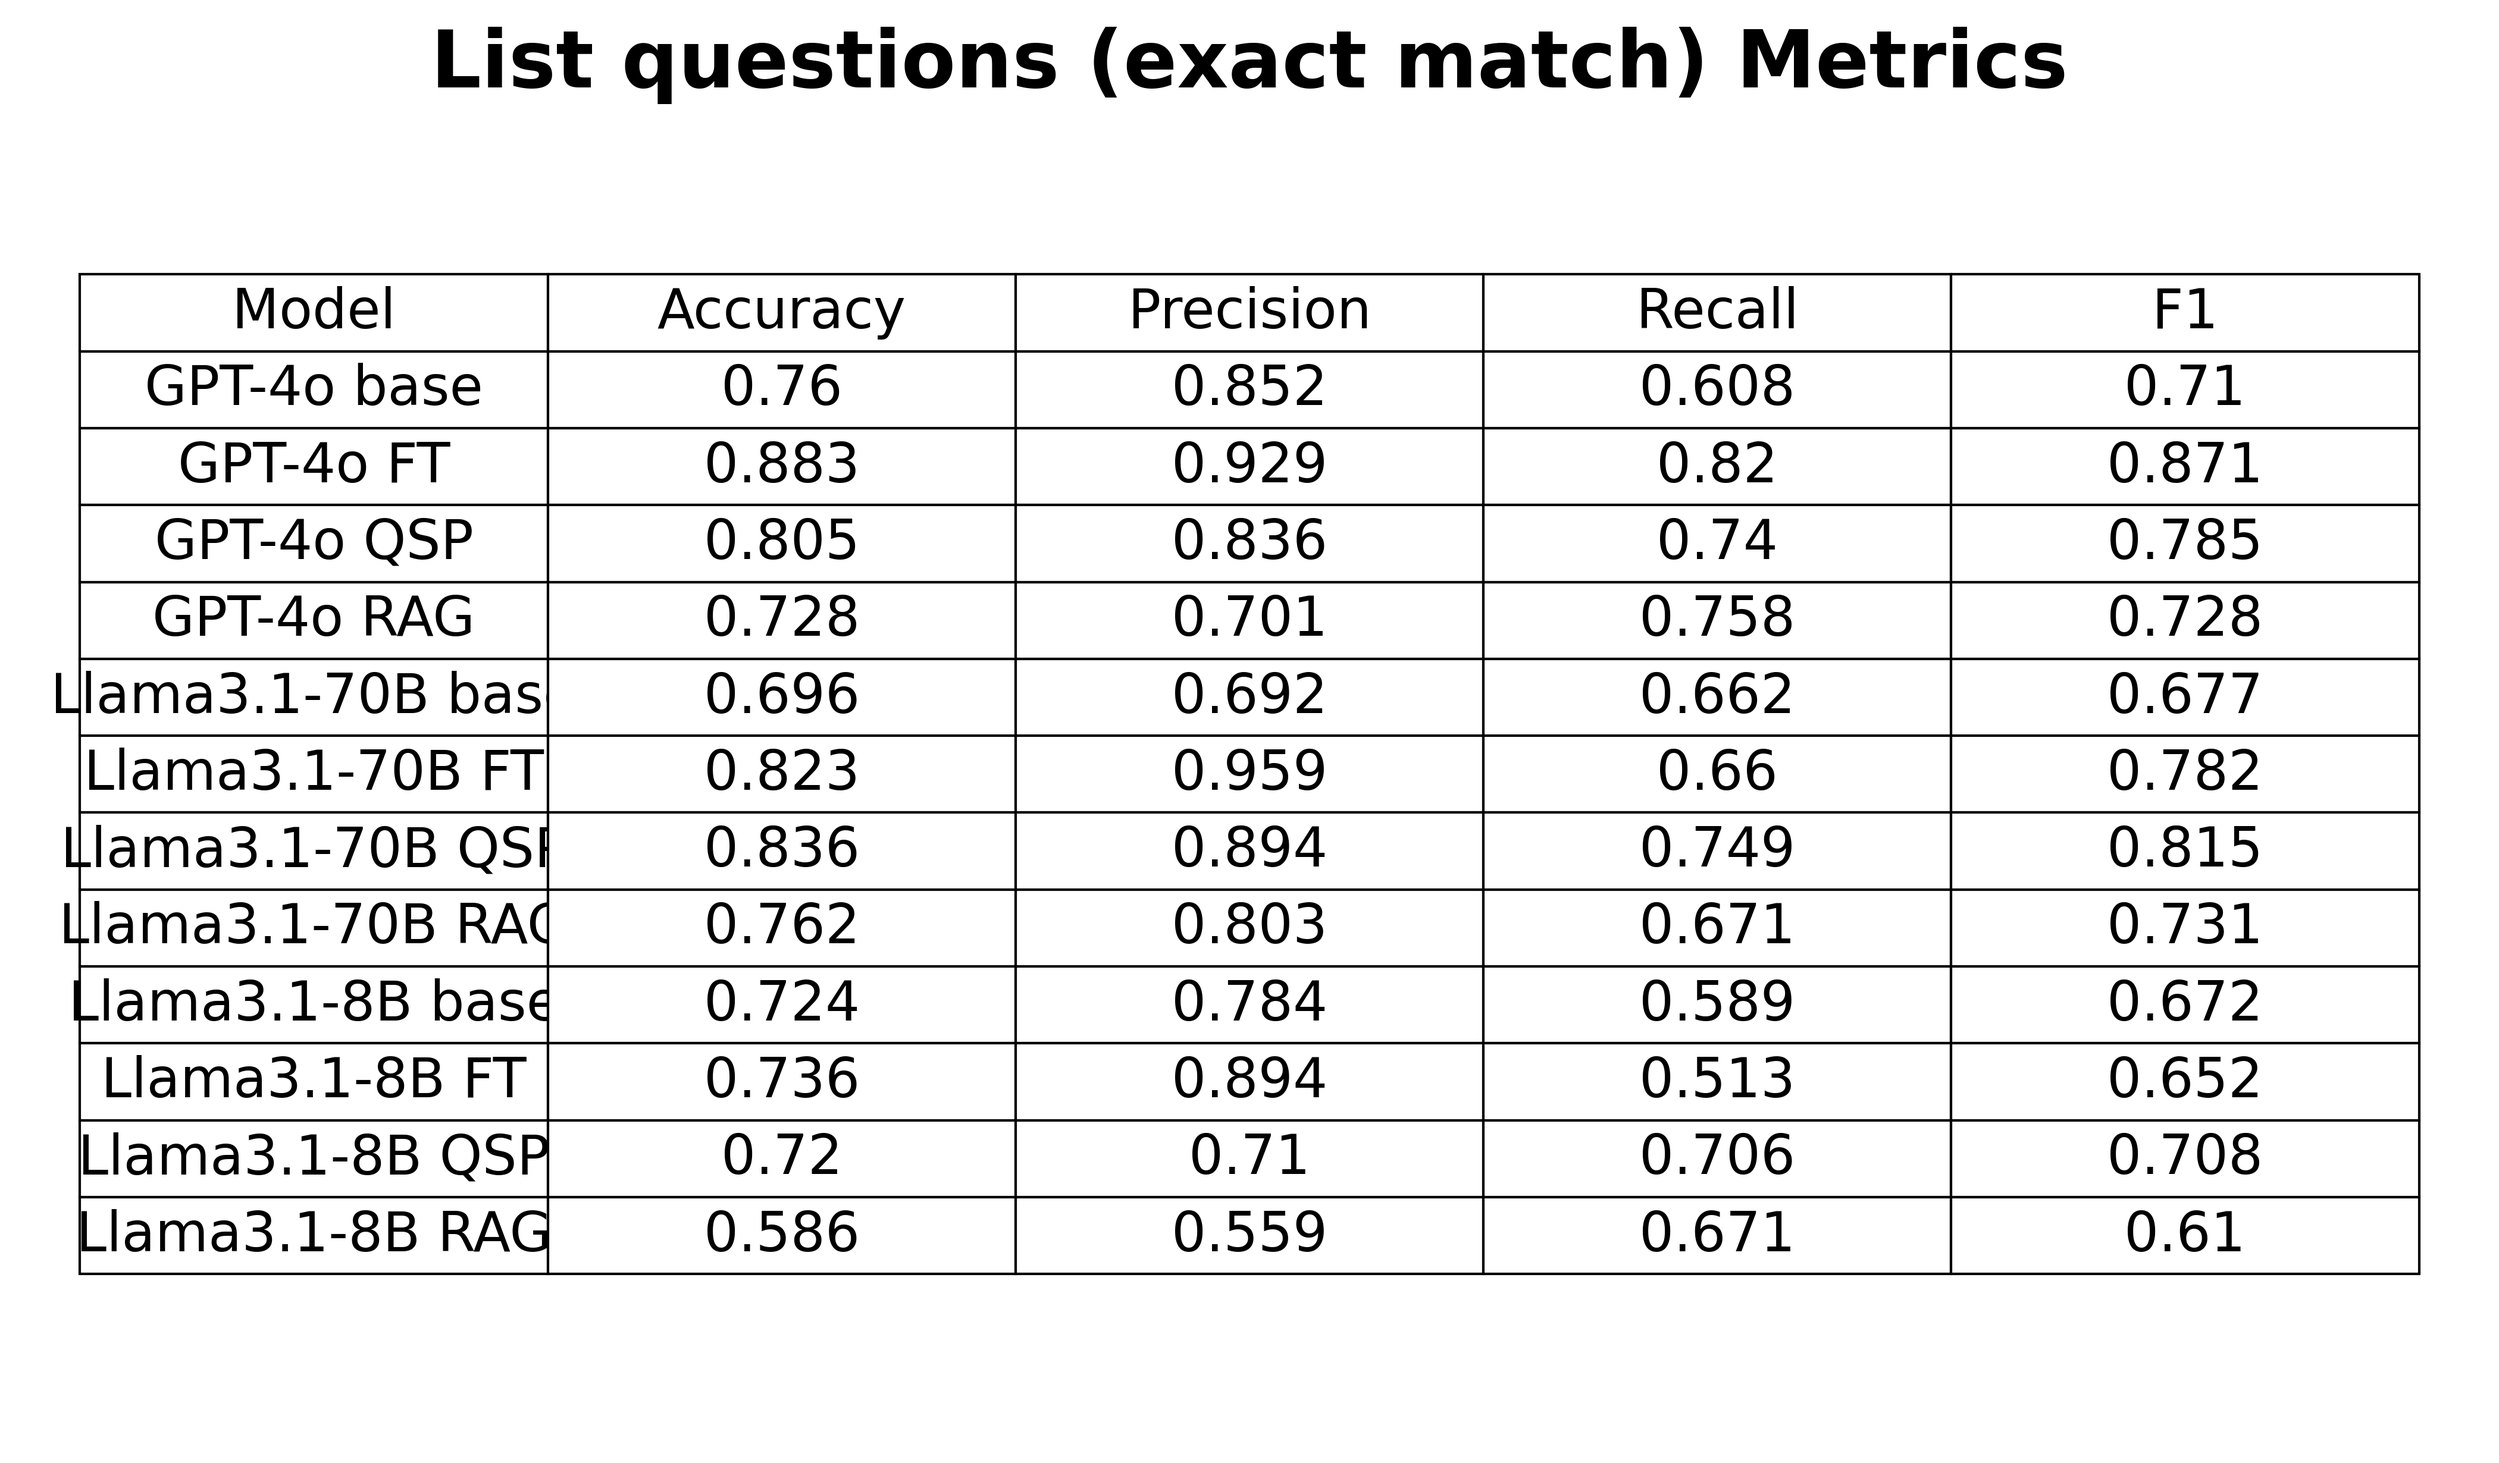
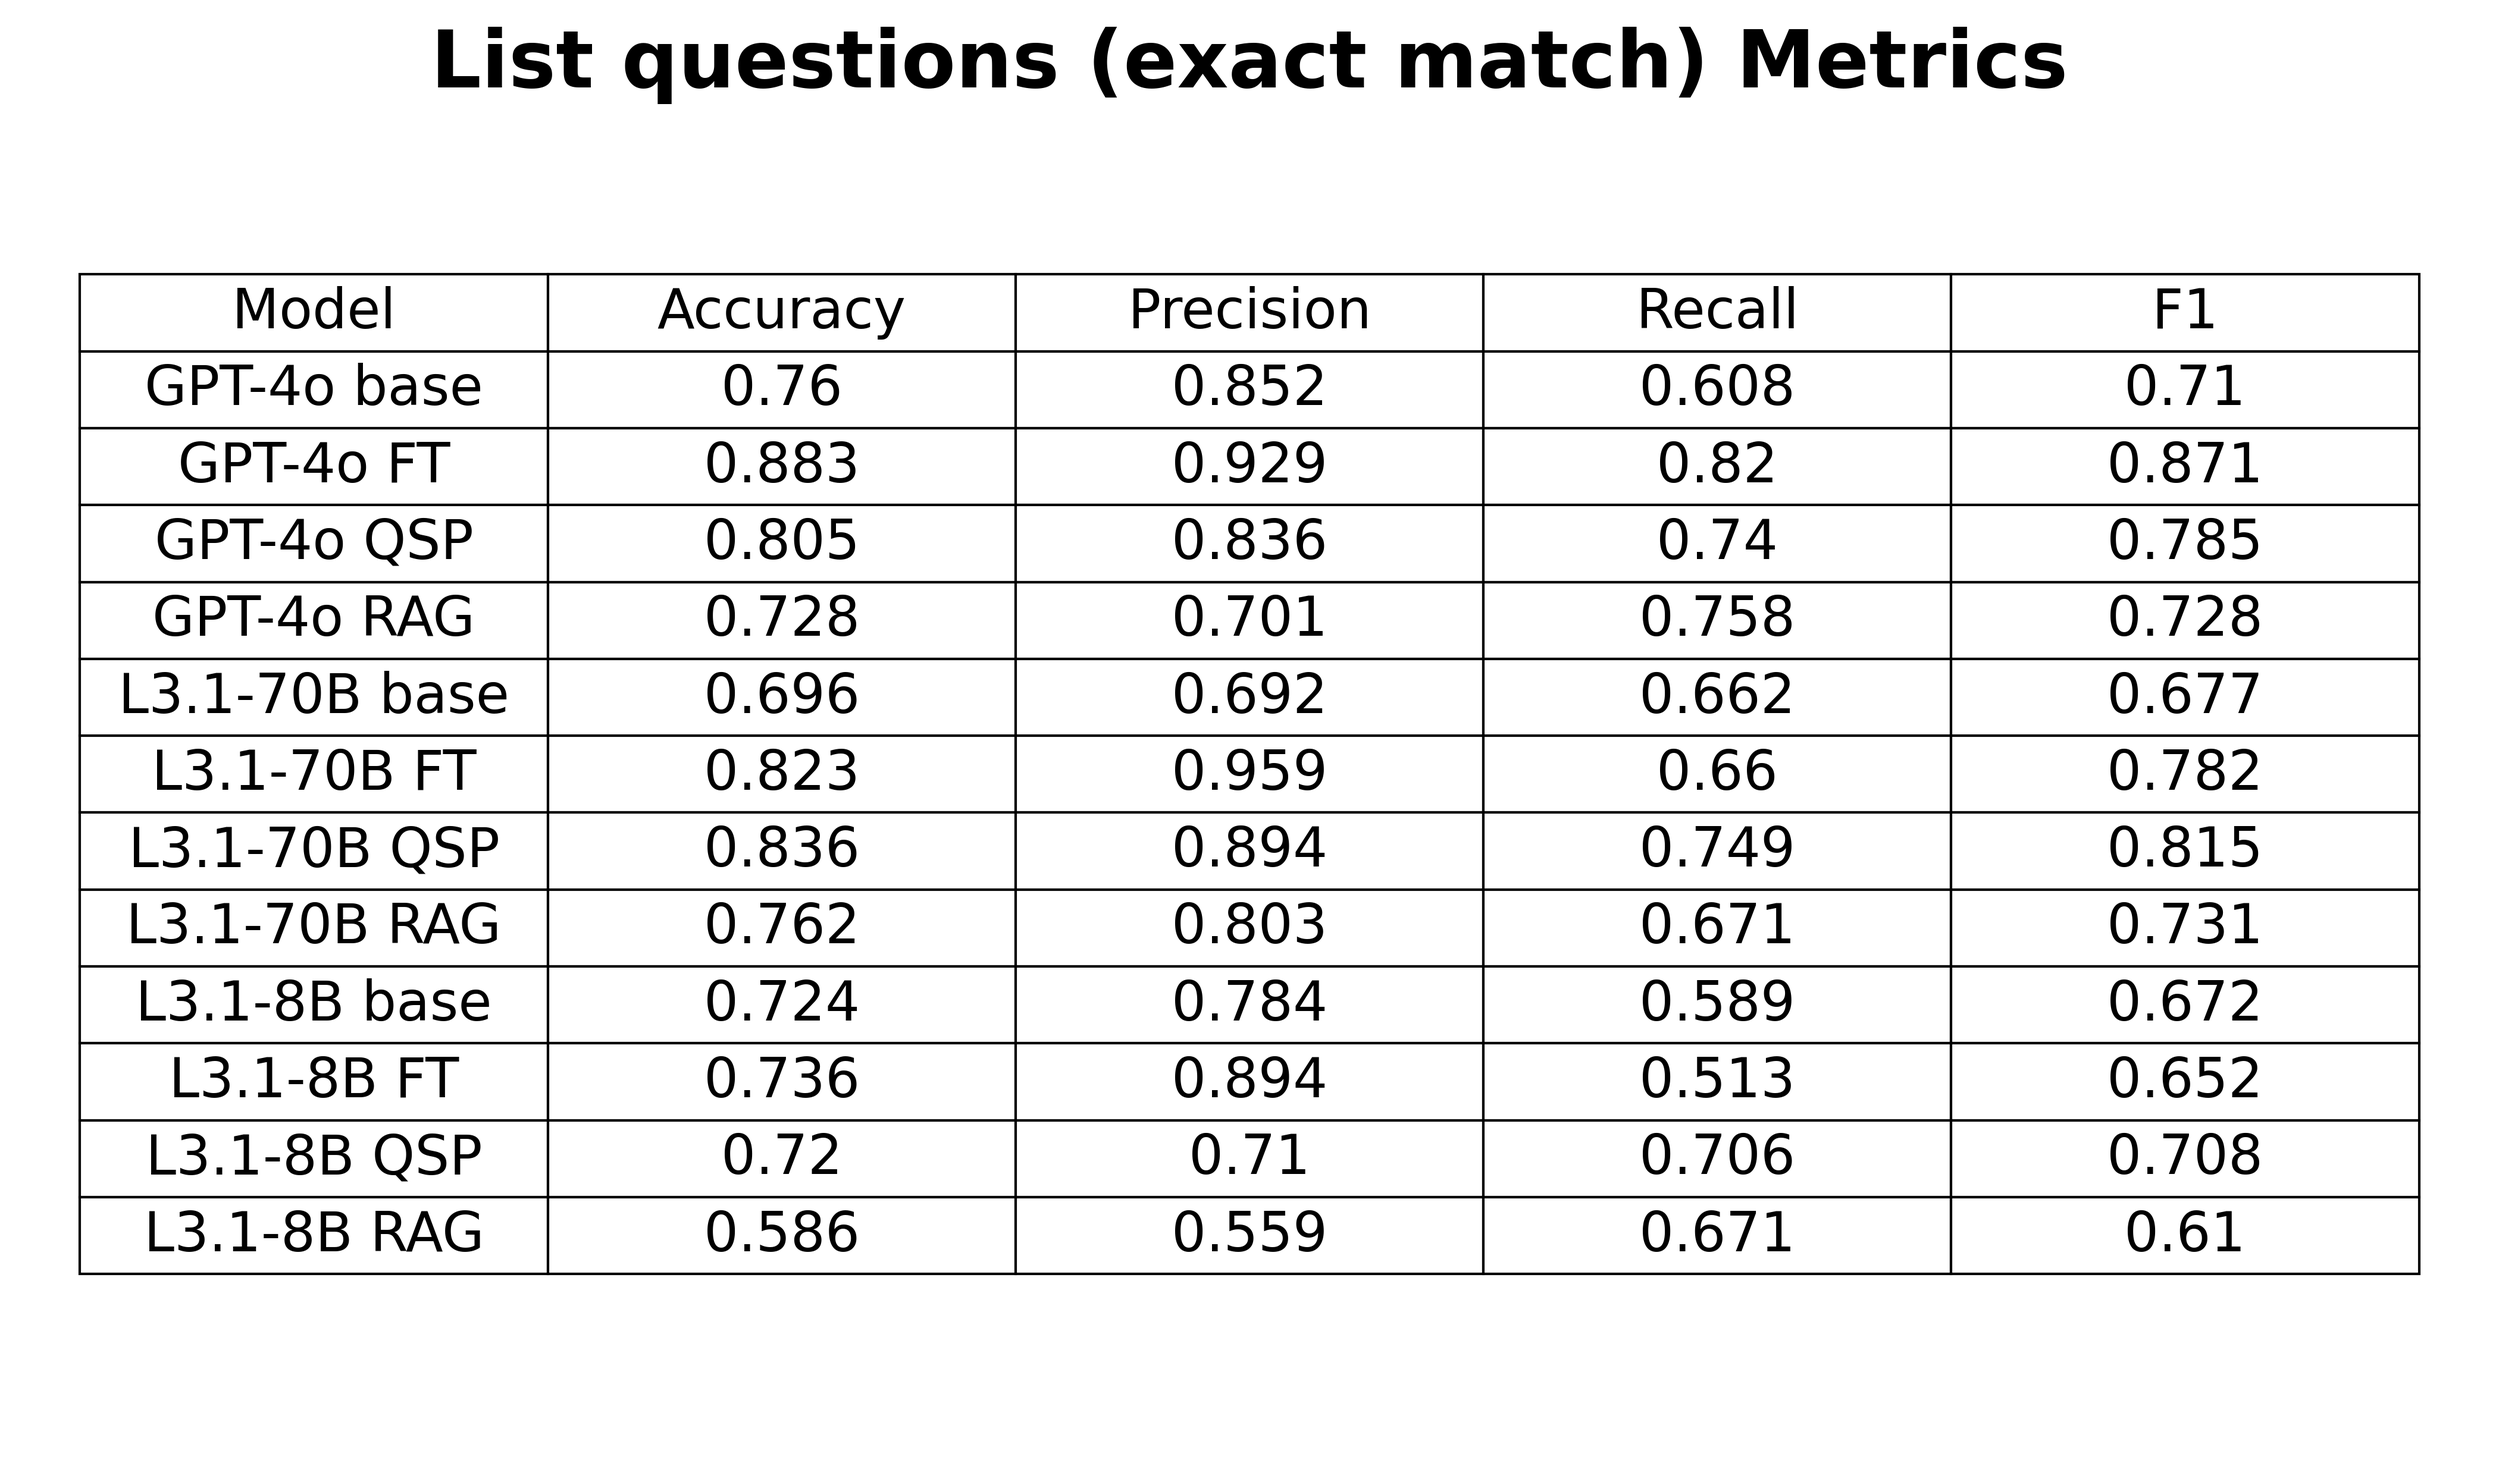
fix table png

Changed region(s): [[0.0312, 0.4634, 0.2183, 0.865]]

diff --git a/eval/plots.py b/eval/plots.py
@@ -325,8 +325,10 @@ def save_table(df, title: str, path: Path) -> None:
     fig_height = 1.0 + 0.6 * len(df)
     fig, ax = plt.subplots(figsize=(14, fig_height))
     ax.axis("off")
+    data = df[["model", "accuracy", "precision", "recall", "f1"]].round(3).values
+    data[:, 0] = df["model"].str.replace("Llama3.1", "L3.1", regex=False)
     table = ax.table(
-        cellText=df[["model", "accuracy", "precision", "recall", "f1"]].round(3).values,
+        cellText=data,
         colLabels=["Model", "Accuracy", "Precision", "Recall", "F1"],
         cellLoc="center",
         loc="center",
